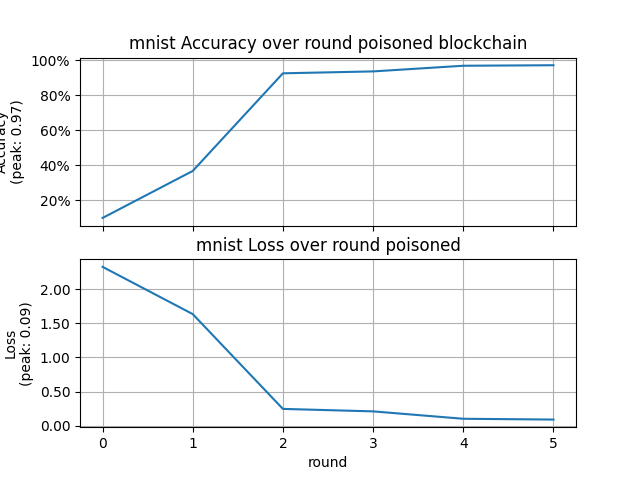
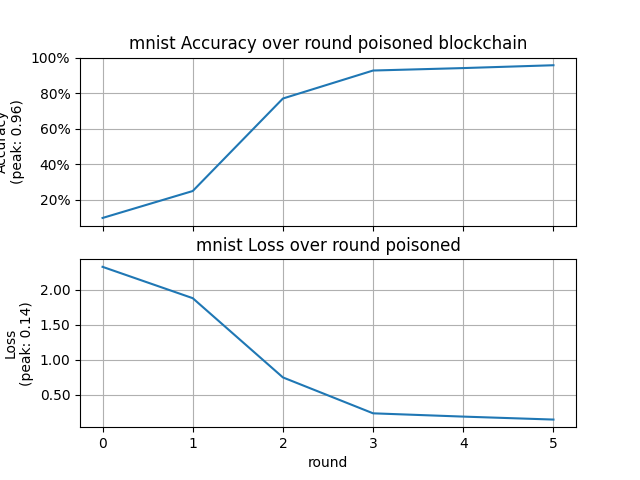
guard logic change, cifar test,mnist blockchain test

diff --git a/src/utils/guard.py b/src/utils/guard.py
@@ -39,31 +39,57 @@ def isWeightCorrupted(federated_cid,round,path):
 
 
 def isPoisoned():      
-    level_counter = 0
-    poisoned_level_counter = 0
+    
+    #initial method
+    # level_counter = 0
+    # poisoned_level_counter = 0
+    # for (server_param_name,server_param_value), (client_param_name,client_param_value) in zip(server_model.state_dict().items(), client_model.state_dict().items()):
+    #     if 'bias' in server_param_name:
+    #         pass
+    #     else:
+    #         level_counter = level_counter + 1
+    #         server_param_value = np.array(server_param_value)
+    #         client_param_value = np.array(client_param_value)
+
+    #         server_max_val = np.max(server_param_value)
+    #         server_min_val = np.min(server_param_value)
+    #         server_param_value = (server_param_value - server_min_val) / (server_max_val - server_min_val)
+            
+    #         client_max_val = np.max(client_param_value)
+    #         client_min_val = np.min(client_param_value)
+    #         client_param_value = (client_param_value - client_min_val) / (client_max_val - client_min_val)
+            
+    #         if (((np.abs(server_param_value - client_param_value)) * 100) > percentage_accept_threshold).any():
+    #             poisoned_level_counter = poisoned_level_counter + 1 
+    
+                
+    # if poisoned_level_counter > (0.30 * level_counter):
+    #     return True
+    
+    
+    
+    
+    
+    
+    # norm difference method
+    flattened_weights_server = np.empty(1)
+    flattened_weights_client = np.empty(1)
     for (server_param_name,server_param_value), (client_param_name,client_param_value) in zip(server_model.state_dict().items(), client_model.state_dict().items()):
         if 'bias' in server_param_name:
             pass
         else:
-            level_counter = level_counter + 1
-            server_param_value = np.array(server_param_value)
-            client_param_value = np.array(client_param_value)
-
-            server_max_val = np.max(server_param_value)
-            server_min_val = np.min(server_param_value)
-            server_param_value = (server_param_value - server_min_val) / (server_max_val - server_min_val)
-            
-            client_max_val = np.max(client_param_value)
-            client_min_val = np.min(client_param_value)
-            client_param_value = (client_param_value - client_min_val) / (client_max_val - client_min_val)
-            
-            if (((np.abs(server_param_value - client_param_value)) * 100) > percentage_accept_threshold).any():
-                poisoned_level_counter = poisoned_level_counter + 1 
+            flattened_weights_server = np.concatenate((flattened_weights_server,np.array(server_param_value).flatten()))
+            flattened_weights_client = np.concatenate((flattened_weights_client,np.array(client_param_value).flatten()))
     
-                
-    if poisoned_level_counter > (0.30 * level_counter):
+    server_nom = np.linalg.norm(flattened_weights_server)
+    client_nom = np.linalg.norm(flattened_weights_client)
+    
+    diff_nom = client_nom  - server_nom
+    difference_percentage = (diff_nom / server_nom)  * 100
+    Utils.printLog(f"\n client: {federated_cid}\n round: {round} \n dif_nomr: {diff_nom}\n percentage: {difference_percentage}\n current threshold: {percentage_accept_threshold}")
+    if difference_percentage > percentage_accept_threshold or difference_percentage < (0 - percentage_accept_threshold):
         return True
-
+    
     return False
     
 
@@ -77,12 +103,12 @@ if __name__ == '__main__':
     
     blockchain_credential = blockchainPrivateKeys[total_client_count]
     
-    
-    percentage = 80 - (100 / total_round_count  * (round - 1))
-    percentage_accept_threshold = percentage if percentage >= 25 else 25
-    
-    
-    Utils.printLog(f'starting client {federated_cid} check at round {round}')
+    percentage_tollerance = 10 - (10 / total_round_count * (round - 1))
+    percentage_tollerance = percentage_tollerance if percentage_tollerance >= 0 else 0
+    percentage_to_remove = ((100) - ((100 + percentage_tollerance) / total_round_count  * (round - 1))) + percentage_tollerance
+    if round == 2:#first check
+        percentage_to_remove = 100 + percentage_tollerance
+    percentage_accept_threshold = percentage_to_remove if percentage_to_remove >= 30 else 30
     
     server_model = Utils.get_model(dataset_name, classes_count)
     server_weight_path = f"./data/clientParameters/node/server_round{round - 1}_parameters.pth"
@@ -111,8 +137,6 @@ if __name__ == '__main__':
     #         json={'blockchainCredential': blockchain_credential})
         
     
-    Utils.printLog(f'finish client {federated_cid} check at round {round}')
-
     
         
     

diff --git a/src/main.py b/src/main.py
@@ -24,10 +24,12 @@ def start(dataset_name,classes_number,poisoning,blockchian):
 if __name__ == "__main__":
     # start('mnist', 10, False, False)
     # start('mnist', 10, True, False)
-    start('mnist', 10, True, True)
+    # start('mnist', 10, True, True)
     
     # start('cifar10', 10, False, False)
-    # start('cifar10', 10, False, False)
+    # start('cifar10', 10, True, False)
+    # start('cifar10', 10, True, True)
     
     # start('cifar100', 100, False, False)
-    # start('cifar100', 100, False, False)
+    # start('cifar100', 100, True, False)
+    start('cifar100', 100, True, True)
